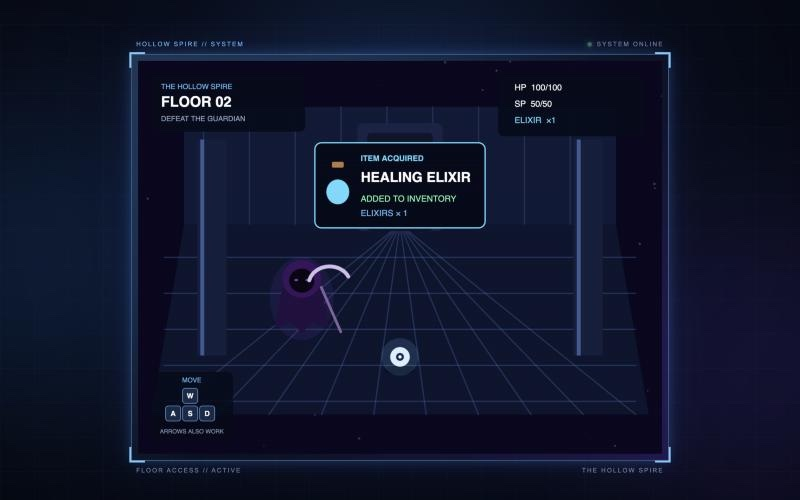
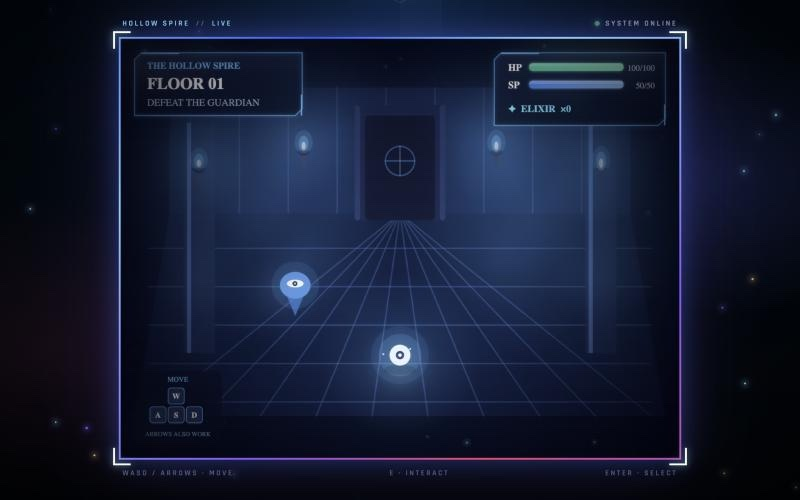
Hollow Spire: new screenshots of the revamped game and updated summary

diff --git a/script.js b/script.js
@@ -167,22 +167,24 @@ const projects = [
     period: "2026 — Goldsmiths, University of London",
     subtitle: "Turn-based RPG made with p5.js",
     description:
-      "An original turn-based RPG built during my Computer Science studies at Goldsmiths, University of London. You climb three floors of the spire, explore each one, and defeat the Hollow Wisp, the Spire Reaper and the Abyssal King to claim the Spire Relic. Battles use attacks, Fire and Ice skills that exploit enemy weaknesses, elixirs and guarding. Move with WASD or the arrow keys, interact with E and select with Enter.",
+      "An original turn-based RPG built during my Computer Science studies at Goldsmiths, University of London. You climb three floors of the spire, explore each one, and defeat the Hollow Wisp, the Spire Reaper and the Abyssal King to claim the Spire Relic. Battles use attacks, Fire and Ice skills that exploit enemy weaknesses, elixirs and guarding. It has since been revamped with torch lighting, bloom, glowing UI panels, hit particles and screen shake. Move with WASD or the arrow keys, interact with E and select with Enter.",
     summary: {
       what: "A browser game with interactive storytelling and gameplay mechanics.",
-      how: "JavaScript with the p5.js creative-coding library.",
+      how: "JavaScript with p5.js, plus a custom effects layer for lighting, bloom and screen shake.",
       why: "To learn game loops, input handling and drawing."
     },
-    tech: ["JavaScript", "p5.js"],
+    tech: ["JavaScript", "p5.js", "Canvas FX"],
     live: `${PAGES}/hollow-spire/`,
     source: `${GITHUB}/hollow-spire`,
     images: [
-      "images/hollow-1.jpg?v=2",
-      "images/hollow-2.jpg?v=2",
-      "images/hollow-3.jpg?v=2",
-      "images/hollow-4.jpg?v=2",
-      "images/hollow-5.jpg?v=2",
-      "images/hollow-6.jpg?v=2"
+      "images/hollow-1.jpg?v=3",
+      "images/hollow-2.jpg?v=3",
+      "images/hollow-3.jpg?v=3",
+      "images/hollow-4.jpg?v=3",
+      "images/hollow-5.jpg?v=3",
+      "images/hollow-6.jpg?v=3",
+      "images/hollow-7.jpg?v=3",
+      "images/hollow-8.jpg?v=3"
     ]
   }
 ];

diff --git a/index.html b/index.html
@@ -6,8 +6,8 @@
   <meta name="viewport" content="width=device-width, initial-scale=1.0">
   <meta name="description" content="Computer Science undergraduate portfolio featuring web development, interactive applications and university projects.">
   <title>Developer Portfolio | Computer Science</title>
-  <link rel="stylesheet" href="style.css?v=202611261233">
-  <script src="script.js?v=202611261233" defer></script>
+  <link rel="stylesheet" href="style.css?v=202611261946">
+  <script src="script.js?v=202611261946" defer></script>
 </head>
 
 <body>

diff --git a/projects.html b/projects.html
@@ -6,8 +6,8 @@
   <meta name="viewport" content="width=device-width, initial-scale=1.0">
   <meta name="description" content="Computer Science portfolio projects featuring web development, creative programming and interactive digital experiences.">
   <title>Projects | My Portfolio</title>
-  <link rel="stylesheet" href="style.css?v=202611261233">
-  <script src="script.js?v=202611261233" defer></script>
+  <link rel="stylesheet" href="style.css?v=202611261946">
+  <script src="script.js?v=202611261946" defer></script>
 </head>
 
 <body>

diff --git a/contact.html b/contact.html
@@ -6,8 +6,8 @@
   <meta name="viewport" content="width=device-width, initial-scale=1.0">
   <meta name="description" content="Contact page for my Computer Science portfolio.">
   <title>Contact | My Portfolio</title>
-  <link rel="stylesheet" href="style.css?v=202611261233">
-  <script src="script.js?v=202611261233" defer></script>
+  <link rel="stylesheet" href="style.css?v=202611261946">
+  <script src="script.js?v=202611261946" defer></script>
 </head>
 
 <body>
